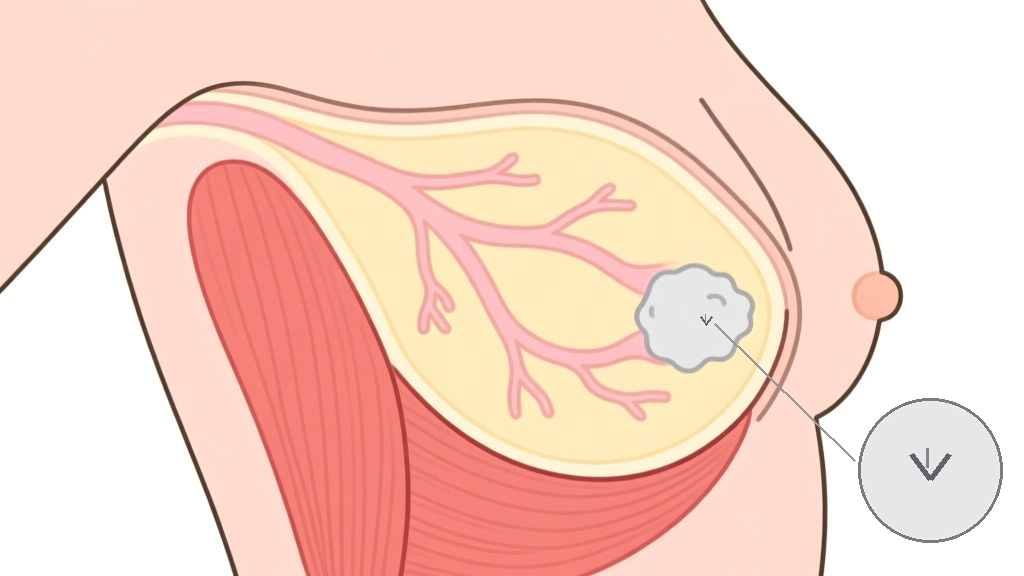
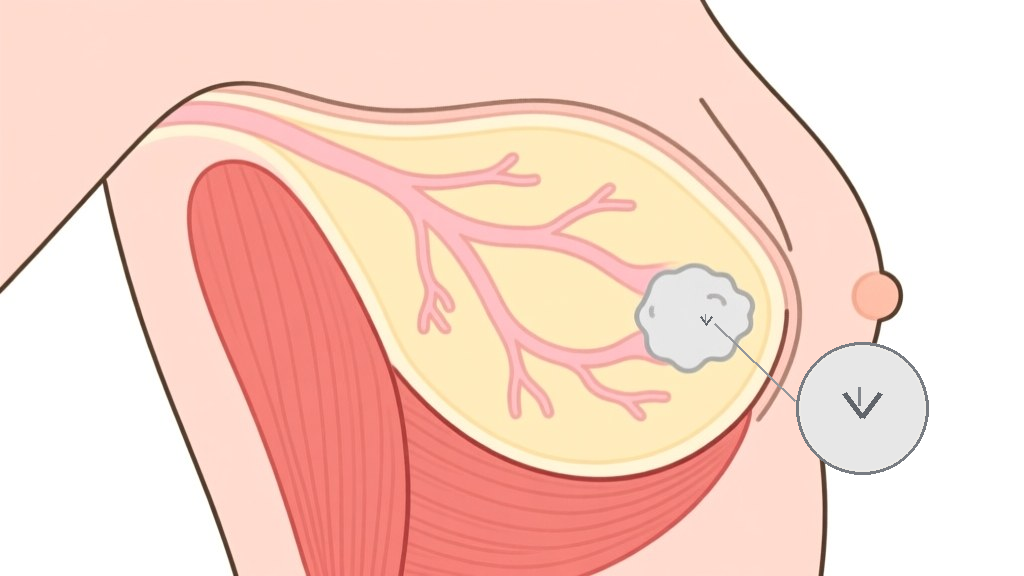
step 7: inset moved left/up so the 16:10 stage crop and the AI badge cannot cover it; media v=19

Changed region(s): [[0.75, 0.5938, 0.9688, 0.9375], [0.9688, 0.75, 1.0, 0.875], [0.875, 0.75, 0.9375, 0.8438]]

diff --git a/index.html b/index.html
@@ -614,31 +614,31 @@ const I18N={"en":{"html":{"k01":"Larger text","k02":"High contrast","k03":"Print
   const STEPS = [
     {t:"Your breast and the lump",
      n:"The lump your doctor wants to check is inside your breast. Most breast lumps are not cancer, but a sample is the only way to know for certain.",
-     media:{kind:'img', src:'assets/b1_anatomy.jpg?v=18', alt:"Side-view illustration of the breast: fat, gland and ducts around a grey lump, sitting on the chest muscle."}},
+     media:{kind:'img', src:'assets/b1_anatomy.jpg?v=19', alt:"Side-view illustration of the breast: fat, gland and ducts around a grey lump, sitting on the chest muscle."}},
     {t:"Finding the lump with ultrasound",
      n:"You lie on your back with your arm above your head. The doctor moves an ultrasound probe over the skin, and the screen shows the lump, where it sits and how deep it is.",
-     media:{kind:'vid', src:'assets/m2_probe_glide.mp4?v=18', poster:'assets/b2_probe.jpg', alt:"A sterile-sleeved ultrasound probe glides over the skin with a little clear gel, guided by a gloved hand."}},
+     media:{kind:'vid', src:'assets/m2_probe_glide.mp4?v=19', poster:'assets/b2_probe.jpg', alt:"A sterile-sleeved ultrasound probe glides over the skin with a little clear gel, guided by a gloved hand."}},
     {t:"Cleaning the skin",
      n:"The skin over the lump is cleaned and the area is covered with a sterile drape. That is all this step involves, and it takes a moment.",
-     media:{kind:'vid', src:'assets/m3_drape.mp4?v=18', poster:'assets/b3_drape.jpg', alt:"Gloved hands unfold a light-blue sterile drape and bring it gently toward you."}},
+     media:{kind:'vid', src:'assets/m3_drape.mp4?v=19', poster:'assets/b3_drape.jpg', alt:"Gloved hands unfold a light-blue sterile drape and bring it gently toward you."}},
     {t:"Numbing the area",
      n:"Local anaesthetic is injected into the skin and deeper into the breast. It stings for a few seconds, and then the area goes numb. You stay awake the whole time.",
-     media:{kind:'vid', src:'assets/m4_lido.mp4?v=18', poster:'assets/b4_lido.jpg?v=18', alt:"A small syringe with a fine needle advances into the skin beside the areola; the skin dimples as the anaesthetic goes in."}},
+     media:{kind:'vid', src:'assets/m4_lido.mp4?v=19', poster:'assets/b4_lido.jpg?v=19', alt:"A small syringe with a fine needle advances into the skin beside the areola; the skin dimples as the anaesthetic goes in."}},
     {t:"A small nick in the skin",
      n:"The anaesthetic has taken effect and the skin is numb. A tiny nick is made in the skin at the spot the needle will enter, so the biopsy needle passes through cleanly.",
-     media:{kind:'img', src:'assets/b5_nick.jpg?v=18', alt:"A blue-gloved hand holds a fine scalpel blade against the numb skin, making a tiny nick at the entry spot."}},
+     media:{kind:'img', src:'assets/b5_nick.jpg?v=19', alt:"A blue-gloved hand holds a fine scalpel blade against the numb skin, making a tiny nick at the entry spot."}},
     {t:"The biopsy needle goes in",
      n:"The biopsy needle is introduced under ultrasound guidance and guided into the lump. Each time the device fires you will hear a short, sharp click as a thin core of tissue is taken; the needle is drawn back and re-introduced until enough tissue has been collected.",
-     media:{kind:'vid', src:'assets/m6_needle.mp4?v=18', poster:'assets/b6_needle.jpg?v=18', alt:"Beside the flat grey linear ultrasound probe, the biopsy needle advances into the skin beside the areola and stops, the skin dimpling at the entry point."}},
+     media:{kind:'vid', src:'assets/m6_needle.mp4?v=19', poster:'assets/b6_needle.jpg?v=19', alt:"Beside the flat grey linear ultrasound probe, the biopsy needle advances into the skin beside the areola and stops, the skin dimpling at the entry point."}},
     {t:"The marker clip",
      n:"A very small clip is left at the spot, so the area can be found again later. You cannot feel it, and it is safe to have an MRI scan with it in place.",
-     media:{kind:'img', src:'assets/b7_clip.jpg?v=18', alt:"Side-view illustration: a small metallic marker clip sits inside the grey lump; a magnified inset shows the clip."}},
+     media:{kind:'img', src:'assets/b7_clip.jpg?v=19', alt:"Side-view illustration: a small metallic marker clip sits inside the grey lump; a magnified inset shows the clip."}},
     {t:"Pressure, then a dressing",
      n:"Firm pressure is held over the spot to stop any bleeding, then a dressing is applied. It stays on, and stays dry, for 48 hours.",
-     media:{kind:'img', src:'assets/b8_dressing.jpg?v=18', alt:"A blue-gloved hand presses a folded square of sterile gauze firmly onto the skin beside the areola; a strip of tape lies ready on the drape."}},
+     media:{kind:'img', src:'assets/b8_dressing.jpg?v=19', alt:"A blue-gloved hand presses a folded square of sterile gauze firmly onto the skin beside the areola; a strip of tape lies ready on the drape."}},
     {t:"Afterwards, and your results",
      n:"The numbness wears off within a few hours. Soreness and bruising settle over a few days to two weeks. Use paracetamol if you need it, not ibuprofen or aspirin. Results usually take about two weeks.",
-     media:{kind:'img', src:'assets/b9_after.jpg?v=18', alt:"From below, the masked, capped clinician looks down with a warm smile and a reassuring nod; a band of blue drape runs along the bottom of the frame."}},
+     media:{kind:'img', src:'assets/b9_after.jpg?v=19', alt:"From below, the masked, capped clinician looks down with a warm smile and a reassuring nod; a band of blue drape runs along the bottom of the frame."}},
   ];
 
   let cur=0, playing=false, guided=false, timer=null, curClip=null;

diff --git a/index2.html b/index2.html
@@ -614,31 +614,31 @@ const I18N={"en":{"html":{"k01":"Larger text","k02":"High contrast","k03":"Print
   const STEPS = [
     {t:"Your breast and the lump",
      n:"The lump your doctor wants to check is inside your breast. Most breast lumps are not cancer, but a sample is the only way to know for certain.",
-     media:{kind:'img', src:'assets/b1_anatomy.jpg?v=18', alt:"Side-view illustration of the breast: fat, gland and ducts around a grey lump, sitting on the chest muscle."}},
+     media:{kind:'img', src:'assets/b1_anatomy.jpg?v=19', alt:"Side-view illustration of the breast: fat, gland and ducts around a grey lump, sitting on the chest muscle."}},
     {t:"Finding the lump with ultrasound",
      n:"You lie on your back with your arm above your head. The doctor moves an ultrasound probe over the skin, and the screen shows the lump, where it sits and how deep it is.",
-     media:{kind:'vid', src:'assets/m2_probe_glide.mp4?v=18', poster:'assets/b2_probe.jpg', alt:"A sterile-sleeved ultrasound probe glides over the skin with a little clear gel, guided by a gloved hand."}},
+     media:{kind:'vid', src:'assets/m2_probe_glide.mp4?v=19', poster:'assets/b2_probe.jpg', alt:"A sterile-sleeved ultrasound probe glides over the skin with a little clear gel, guided by a gloved hand."}},
     {t:"Cleaning the skin",
      n:"The skin over the lump is cleaned and the area is covered with a sterile drape. That is all this step involves, and it takes a moment.",
-     media:{kind:'vid', src:'assets/m3_drape.mp4?v=18', poster:'assets/b3_drape.jpg', alt:"Gloved hands unfold a light-blue sterile drape and bring it gently toward you."}},
+     media:{kind:'vid', src:'assets/m3_drape.mp4?v=19', poster:'assets/b3_drape.jpg', alt:"Gloved hands unfold a light-blue sterile drape and bring it gently toward you."}},
     {t:"Numbing the area",
      n:"Local anaesthetic is injected into the skin and deeper into the breast. It stings for a few seconds, and then the area goes numb. You stay awake the whole time.",
-     media:{kind:'vid', src:'assets/m4_lido.mp4?v=18', poster:'assets/b4_lido.jpg?v=18', alt:"A small syringe with a fine needle advances into the skin beside the areola; the skin dimples as the anaesthetic goes in."}},
+     media:{kind:'vid', src:'assets/m4_lido.mp4?v=19', poster:'assets/b4_lido.jpg?v=19', alt:"A small syringe with a fine needle advances into the skin beside the areola; the skin dimples as the anaesthetic goes in."}},
     {t:"A small nick in the skin",
      n:"The anaesthetic has taken effect and the skin is numb. A tiny nick is made in the skin at the spot the needle will enter, so the biopsy needle passes through cleanly.",
-     media:{kind:'img', src:'assets/b5_nick.jpg?v=18', alt:"A blue-gloved hand holds a fine scalpel blade against the numb skin, making a tiny nick at the entry spot."}},
+     media:{kind:'img', src:'assets/b5_nick.jpg?v=19', alt:"A blue-gloved hand holds a fine scalpel blade against the numb skin, making a tiny nick at the entry spot."}},
     {t:"The biopsy needle goes in",
      n:"The biopsy needle is introduced under ultrasound guidance and guided into the lump. Each time the device fires you will hear a short, sharp click as a thin core of tissue is taken; the needle is drawn back and re-introduced until enough tissue has been collected.",
-     media:{kind:'vid', src:'assets/m6_needle.mp4?v=18', poster:'assets/b6_needle.jpg?v=18', alt:"Beside the flat grey linear ultrasound probe, the biopsy needle advances into the skin beside the areola and stops, the skin dimpling at the entry point."}},
+     media:{kind:'vid', src:'assets/m6_needle.mp4?v=19', poster:'assets/b6_needle.jpg?v=19', alt:"Beside the flat grey linear ultrasound probe, the biopsy needle advances into the skin beside the areola and stops, the skin dimpling at the entry point."}},
     {t:"The marker clip",
      n:"A very small clip is left at the spot, so the area can be found again later. You cannot feel it, and it is safe to have an MRI scan with it in place.",
-     media:{kind:'img', src:'assets/b7_clip.jpg?v=18', alt:"Side-view illustration: a small metallic marker clip sits inside the grey lump; a magnified inset shows the clip."}},
+     media:{kind:'img', src:'assets/b7_clip.jpg?v=19', alt:"Side-view illustration: a small metallic marker clip sits inside the grey lump; a magnified inset shows the clip."}},
     {t:"Pressure, then a dressing",
      n:"Firm pressure is held over the spot to stop any bleeding, then a dressing is applied. It stays on, and stays dry, for 48 hours.",
-     media:{kind:'img', src:'assets/b8_dressing.jpg?v=18', alt:"A blue-gloved hand presses a folded square of sterile gauze firmly onto the skin beside the areola; a strip of tape lies ready on the drape."}},
+     media:{kind:'img', src:'assets/b8_dressing.jpg?v=19', alt:"A blue-gloved hand presses a folded square of sterile gauze firmly onto the skin beside the areola; a strip of tape lies ready on the drape."}},
     {t:"Afterwards, and your results",
      n:"The numbness wears off within a few hours. Soreness and bruising settle over a few days to two weeks. Use paracetamol if you need it, not ibuprofen or aspirin. Results usually take about two weeks.",
-     media:{kind:'img', src:'assets/b9_after.jpg?v=18', alt:"From below, the masked, capped clinician looks down with a warm smile and a reassuring nod; a band of blue drape runs along the bottom of the frame."}},
+     media:{kind:'img', src:'assets/b9_after.jpg?v=19', alt:"From below, the masked, capped clinician looks down with a warm smile and a reassuring nod; a band of blue drape runs along the bottom of the frame."}},
   ];
 
   let cur=0, playing=false, guided=false, timer=null, curClip=null;

diff --git a/src2/app_media.js b/src2/app_media.js
@@ -24,31 +24,31 @@
   const STEPS = [
     {t:"Your breast and the lump",
      n:"The lump your doctor wants to check is inside your breast. Most breast lumps are not cancer, but a sample is the only way to know for certain.",
-     media:{kind:'img', src:'assets/b1_anatomy.jpg?v=18', alt:"Side-view illustration of the breast: fat, gland and ducts around a grey lump, sitting on the chest muscle."}},
+     media:{kind:'img', src:'assets/b1_anatomy.jpg?v=19', alt:"Side-view illustration of the breast: fat, gland and ducts around a grey lump, sitting on the chest muscle."}},
     {t:"Finding the lump with ultrasound",
      n:"You lie on your back with your arm above your head. The doctor moves an ultrasound probe over the skin, and the screen shows the lump, where it sits and how deep it is.",
-     media:{kind:'vid', src:'assets/m2_probe_glide.mp4?v=18', poster:'assets/b2_probe.jpg', alt:"A sterile-sleeved ultrasound probe glides over the skin with a little clear gel, guided by a gloved hand."}},
+     media:{kind:'vid', src:'assets/m2_probe_glide.mp4?v=19', poster:'assets/b2_probe.jpg', alt:"A sterile-sleeved ultrasound probe glides over the skin with a little clear gel, guided by a gloved hand."}},
     {t:"Cleaning the skin",
      n:"The skin over the lump is cleaned and the area is covered with a sterile drape. That is all this step involves, and it takes a moment.",
-     media:{kind:'vid', src:'assets/m3_drape.mp4?v=18', poster:'assets/b3_drape.jpg', alt:"Gloved hands unfold a light-blue sterile drape and bring it gently toward you."}},
+     media:{kind:'vid', src:'assets/m3_drape.mp4?v=19', poster:'assets/b3_drape.jpg', alt:"Gloved hands unfold a light-blue sterile drape and bring it gently toward you."}},
     {t:"Numbing the area",
      n:"Local anaesthetic is injected into the skin and deeper into the breast. It stings for a few seconds, and then the area goes numb. You stay awake the whole time.",
-     media:{kind:'vid', src:'assets/m4_lido.mp4?v=18', poster:'assets/b4_lido.jpg?v=18', alt:"A small syringe with a fine needle advances into the skin beside the areola; the skin dimples as the anaesthetic goes in."}},
+     media:{kind:'vid', src:'assets/m4_lido.mp4?v=19', poster:'assets/b4_lido.jpg?v=19', alt:"A small syringe with a fine needle advances into the skin beside the areola; the skin dimples as the anaesthetic goes in."}},
     {t:"A small nick in the skin",
      n:"The anaesthetic has taken effect and the skin is numb. A tiny nick is made in the skin at the spot the needle will enter, so the biopsy needle passes through cleanly.",
-     media:{kind:'img', src:'assets/b5_nick.jpg?v=18', alt:"A blue-gloved hand holds a fine scalpel blade against the numb skin, making a tiny nick at the entry spot."}},
+     media:{kind:'img', src:'assets/b5_nick.jpg?v=19', alt:"A blue-gloved hand holds a fine scalpel blade against the numb skin, making a tiny nick at the entry spot."}},
     {t:"The biopsy needle goes in",
      n:"The biopsy needle is introduced under ultrasound guidance and guided into the lump. Each time the device fires you will hear a short, sharp click as a thin core of tissue is taken; the needle is drawn back and re-introduced until enough tissue has been collected.",
-     media:{kind:'vid', src:'assets/m6_needle.mp4?v=18', poster:'assets/b6_needle.jpg?v=18', alt:"Beside the flat grey linear ultrasound probe, the biopsy needle advances into the skin beside the areola and stops, the skin dimpling at the entry point."}},
+     media:{kind:'vid', src:'assets/m6_needle.mp4?v=19', poster:'assets/b6_needle.jpg?v=19', alt:"Beside the flat grey linear ultrasound probe, the biopsy needle advances into the skin beside the areola and stops, the skin dimpling at the entry point."}},
     {t:"The marker clip",
      n:"A very small clip is left at the spot, so the area can be found again later. You cannot feel it, and it is safe to have an MRI scan with it in place.",
-     media:{kind:'img', src:'assets/b7_clip.jpg?v=18', alt:"Side-view illustration: a small metallic marker clip sits inside the grey lump; a magnified inset shows the clip."}},
+     media:{kind:'img', src:'assets/b7_clip.jpg?v=19', alt:"Side-view illustration: a small metallic marker clip sits inside the grey lump; a magnified inset shows the clip."}},
     {t:"Pressure, then a dressing",
      n:"Firm pressure is held over the spot to stop any bleeding, then a dressing is applied. It stays on, and stays dry, for 48 hours.",
-     media:{kind:'img', src:'assets/b8_dressing.jpg?v=18', alt:"A blue-gloved hand presses a folded square of sterile gauze firmly onto the skin beside the areola; a strip of tape lies ready on the drape."}},
+     media:{kind:'img', src:'assets/b8_dressing.jpg?v=19', alt:"A blue-gloved hand presses a folded square of sterile gauze firmly onto the skin beside the areola; a strip of tape lies ready on the drape."}},
     {t:"Afterwards, and your results",
      n:"The numbness wears off within a few hours. Soreness and bruising settle over a few days to two weeks. Use paracetamol if you need it, not ibuprofen or aspirin. Results usually take about two weeks.",
-     media:{kind:'img', src:'assets/b9_after.jpg?v=18', alt:"From below, the masked, capped clinician looks down with a warm smile and a reassuring nod; a band of blue drape runs along the bottom of the frame."}},
+     media:{kind:'img', src:'assets/b9_after.jpg?v=19', alt:"From below, the masked, capped clinician looks down with a warm smile and a reassuring nod; a band of blue drape runs along the bottom of the frame."}},
   ];
 
   let cur=0, playing=false, guided=false, timer=null, curClip=null;
